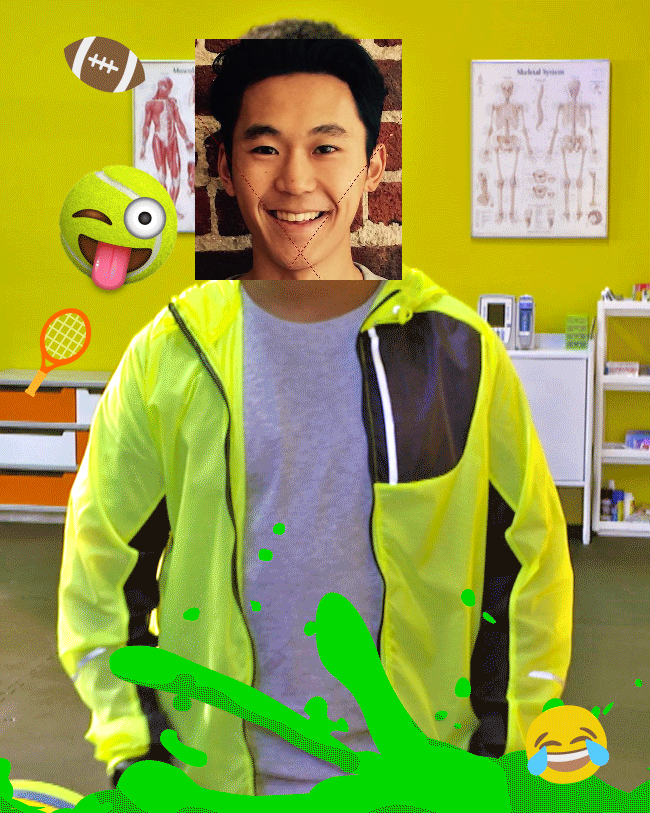
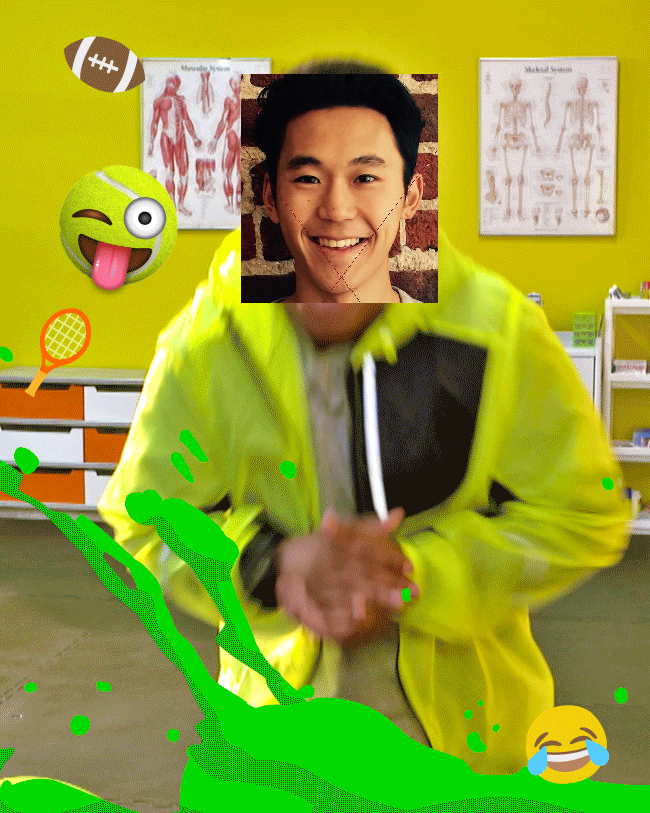
Created loop to paste space on each frame, but error for local variable 'box' referenced before assignment

diff --git a/Dropbox/Programming/GiphyMe/src/common/loop_paste_face.py b/Dropbox/Programming/GiphyMe/src/common/loop_paste_face.py
@@ -1,0 +1,44 @@
+from PIL import Image
+
+import src.common.face_detect_crop as fc
+import src.common.gif_maker as gm
+
+'''
+Single Paste
+- Identify face on selfie and crop
+- Split GIF into multiple frames
+- Identify face on GIF and get coordinates on first Frame
+- Normalize two images and resized cropped selfie
+  - Sample coordinates [192 (x1), 110(y1), 601(x2), 587(y2)]
+  - To calculate height
+        - (110-587)
+  - To calculate width
+        - (192-601)
+- Paste resized cropped seflie on GIF Image
+'''
+
+
+
+
+seflie_image = fc.detect_crop('test.jpg','test_crop.jpg',1)
+gif_images = gm.expand_gif('source.gif')
+new_gif_images =[]
+
+for filename in gif_images:
+    print filename
+    gif_face_coordinates = fc.outline_face_image(filename)
+    resize_selfie_image = fc.resize_image('test_crop.jpg', 'test_resize.png', gif_face_coordinates)
+    selfie = Image.open('test_resize.png').convert('RGBA')
+    gif_image = Image.open(filename).convert('RGBA')
+    gif_face_coordinates = fc.outline_face_image(filename)
+    gif_image.paste(selfie, (gif_face_coordinates[0], gif_face_coordinates[1],gif_face_coordinates[2],gif_face_coordinates[3]))
+    i = 0
+    gif_image.save('giphy_me_%d.png' % i)
+    new_gif_images.append('giphy_me_%d.png' % i)
+    i += 1
+
+
+gm.create_gif(new_gif_images,'giphy_me.gif')
+
+
+

diff --git a/Dropbox/Programming/GiphyMe/src/common/face_detect_crop.py b/Dropbox/Programming/GiphyMe/src/common/face_detect_crop.py
@@ -53,7 +53,6 @@ def outline_face_image(input_filename,max_results=1):
         faces = detect_face(image, max_results)
         image.seek(0)
         face_coordinates = outline_face(faces)
-        print face_coordinates
     return face_coordinates
 
 def resize_image(input_filename,output_filename, face_coordinates):

diff --git a/Dropbox/Programming/GiphyMe/src/common/paste_face.py b/Dropbox/Programming/GiphyMe/src/common/paste_face.py
@@ -19,7 +19,7 @@ Single Paste
 
 
 seflie_image = fc.detect_crop('test.jpg','test_crop.jpg',1)
-# gm.expand_gif('source.gif')
+gm.expand_gif('source.gif')
 gif_face_coordinates = fc.outline_face_image('gif0.png')
 print gif_face_coordinates[0]
 print gif_face_coordinates[1]
